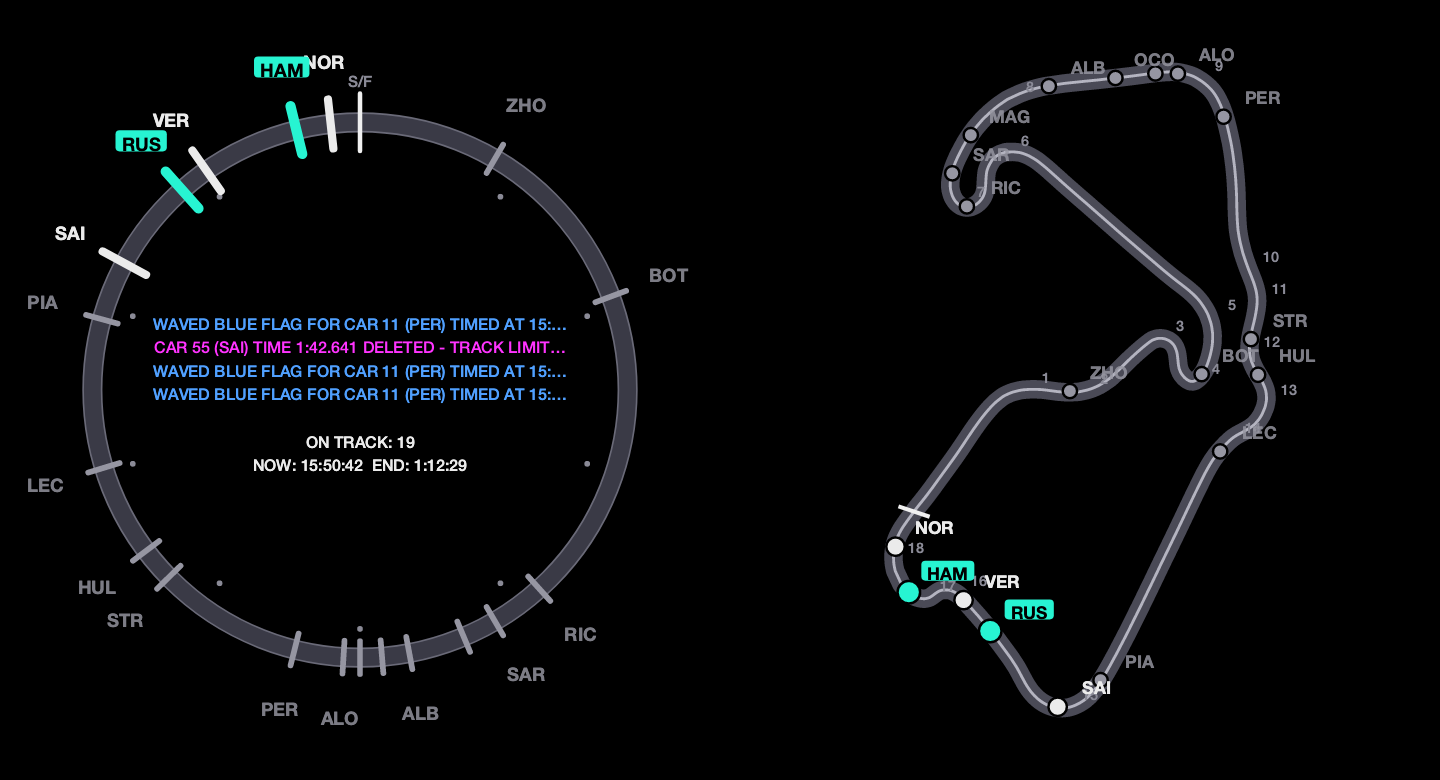
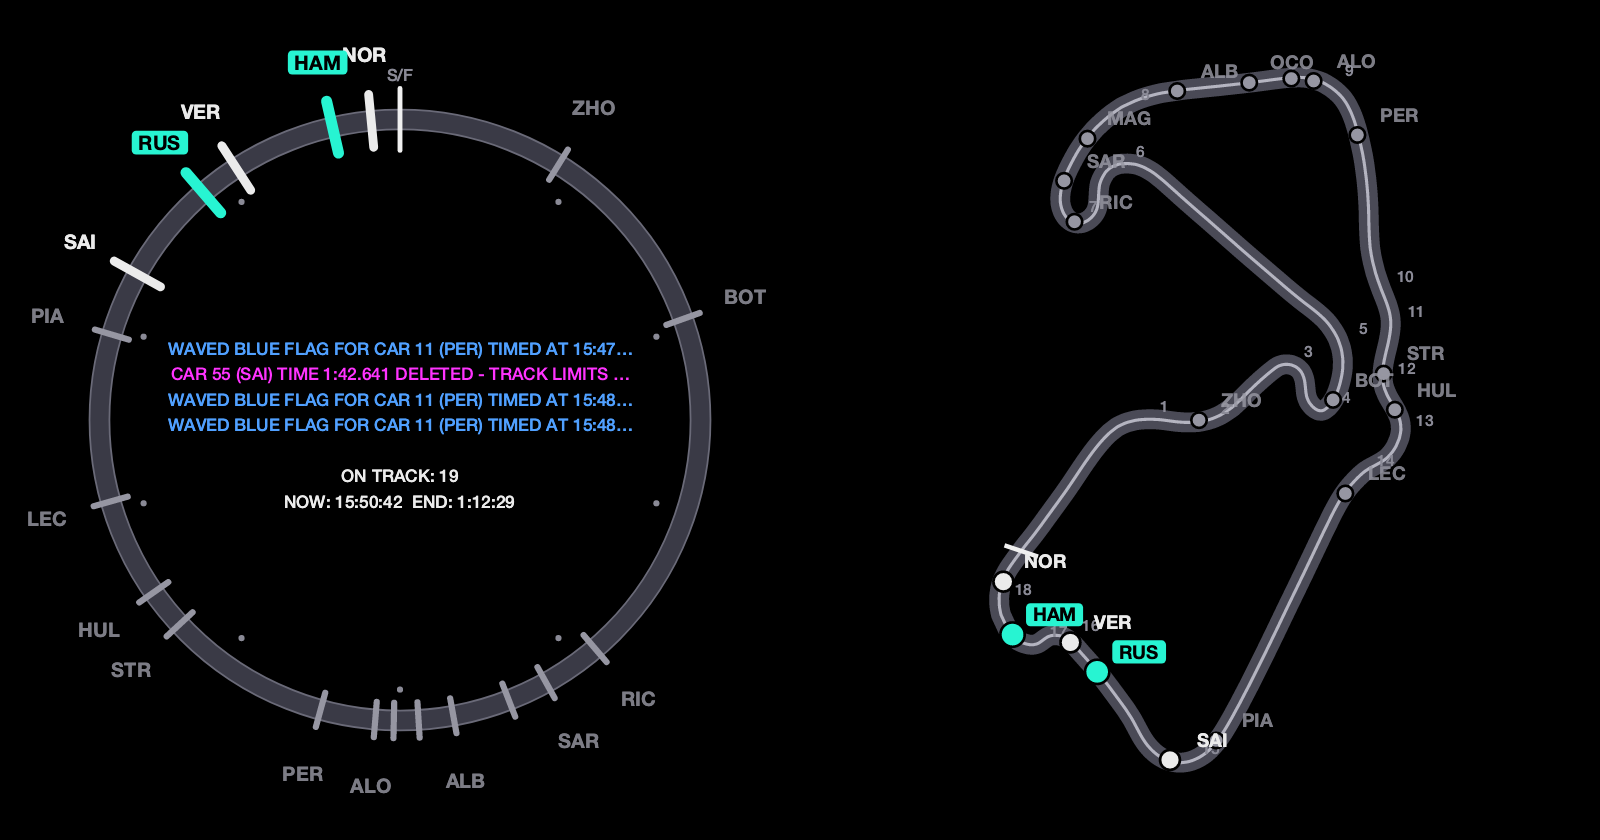
Refresh README screenshots: race trace, telemetry, track

diff --git a/README.md b/README.md
@@ -33,6 +33,16 @@ Every page follows the team you picked, and its two cars are marked in the team 
 | `4` | **Track** | A lap ring showing where every car is around the lap, with the latest race control messages inside it, next to the circuit map. Drawn as a real image in terminals that support inline graphics (iTerm2, Kitty, WezTerm, Ghostty and others), and with text characters everywhere else. |
 | `5` | **Comms** | Race control messages coloured by type, with the ones about the team marked, next to the team's radio. Every radio message is transcribed automatically, on your machine, and any of them can be played. |
 
+**Strategy:** the race trace at Silverstone 2024. The field slows as the rain arrives around lap 18, then everyone stops for intermediates around lap 27. The team's cars are in team colour, with the cars around them in their colours and the rest of the field in grey.
+
+![The race trace on the strategy page](docs/images/race-trace.png)
+
+**Telemetry:** both cars' current lap over the previous one (grey), with the white cursor at each car's position.
+
+![Telemetry traces for both cars](docs/images/telemetry.png)
+
+**Track:** where every car is around the lap, and on the circuit.
+
 ![The track page: lap ring and circuit map](docs/images/track.png)
 
 A few things worth knowing:
